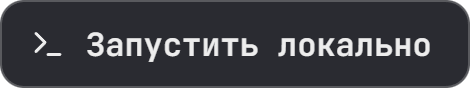
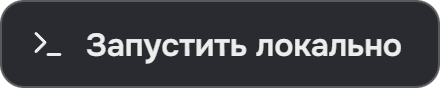
docs: Шапка README приведена к шаблону, логотип без подложки и ровные ряды бейджей

diff --git a/presentation/readme/assets.html b/presentation/readme/assets.html
@@ -56,31 +56,7 @@ body {
   align-content: center;
   gap: 22px;
   width: 880px;
-  height: 300px;
-  overflow: hidden;
-  border: 1px solid var(--border-subtle);
-  border-radius: var(--radius-lg);
-  background: var(--surface-raised);
-}
-
-.banner-trace {
-  position: absolute;
-  left: 0;
-  right: 0;
-  top: 150px;
-  height: 1px;
-  background: var(--border-subtle);
-}
-
-.banner-trace::after {
-  content: "";
-  position: absolute;
-  right: 96px;
-  top: -5px;
-  width: 11px;
-  height: 11px;
-  border-radius: var(--radius-pill);
-  background: var(--action-primary);
+  height: 200px;
 }
 
 .lockup {
@@ -88,8 +64,6 @@ body {
   display: flex;
   align-items: center;
   gap: 20px;
-  padding: 0 24px;
-  background: var(--surface-raised);
 }
 
 .mark {
@@ -142,14 +116,6 @@ body {
   background: var(--brand-mark-blue);
 }
 
-.team {
-  position: relative;
-  margin: 0;
-  font-family: var(--font-mono);
-  font-size: 15px;
-  color: var(--text-tertiary);
-}
-
 .promise {
   position: relative;
   max-width: 720px;
@@ -168,7 +134,6 @@ body {
 }
 
 .cta {
-  font-family: var(--font-mono);
   display: inline-flex;
   align-items: center;
   gap: 10px;
@@ -264,13 +229,11 @@ body {
 <body>
 
 <div class="banner" data-asset="banner">
-  <span class="banner-trace"></span>
   <div class="lockup">
     <span class="mark" data-mark></span>
     <span class="wordmark">cal<span class="wm-i">ı<i></i></span>br</span>
   </div>
   <p class="promise">Подбор ИТ-специалистов, <em>который нельзя накрутить</em></p>
-  <p class="team">команда GoatWhistle, спецтрек ФСП</p>
 </div>
 
 <span class="mark" data-asset="mark" data-mark style="width: 34px; height: 33px"></span>

diff --git a/README.md b/README.md
@@ -1,7 +1,7 @@
 <p align="center">
   <picture>
     <source media="(prefers-color-scheme: dark)" srcset="docs/readme/banner.dark.png">
-    <img src="docs/readme/banner.light.png" alt="calibr: подбор ИТ-специалистов, который нельзя накрутить" width="880" height="300">
+    <img src="docs/readme/banner.light.png" alt="calibr: подбор ИТ-специалистов, который нельзя накрутить" width="880" height="200">
   </picture>
 </p>
 
@@ -13,10 +13,11 @@
 
 <p align="center">
   <!-- readme:buttons -->
-  <a href="http://lct-fsp.goatwhistle.ru"><picture><source media="(prefers-color-scheme: dark)" srcset="docs/readme/cta-live.dark.png"><img src="docs/readme/cta-live.light.png" alt="Открыть стенд" width="187" height="44"></picture></a>
-  <a href="#запуск"><picture><source media="(prefers-color-scheme: dark)" srcset="docs/readme/cta-run.dark.png"><img src="docs/readme/cta-run.light.png" alt="Запустить локально" width="235" height="44"></picture></a>
-  <a href="docs/for-jury.md"><picture><source media="(prefers-color-scheme: dark)" srcset="docs/readme/cta-jury.dark.png"><img src="docs/readme/cta-jury.light.png" alt="Маршрут для жюри" width="216" height="44"></picture></a>
-  <a href="docs/README.md"><picture><source media="(prefers-color-scheme: dark)" srcset="docs/readme/cta-docs.dark.png"><img src="docs/readme/cta-docs.light.png" alt="Документация" width="177" height="44"></picture></a>
+  <a href="http://lct-fsp.goatwhistle.ru"><picture><source media="(prefers-color-scheme: dark)" srcset="docs/readme/cta-live.dark.png"><img src="docs/readme/cta-live.light.png" alt="Открыть стенд" width="178" height="44"></picture></a>
+  <a href="#запуск"><picture><source media="(prefers-color-scheme: dark)" srcset="docs/readme/cta-run.dark.png"><img src="docs/readme/cta-run.light.png" alt="Запустить локально" width="220" height="44"></picture></a>
+  <br>
+  <a href="docs/for-jury.md"><picture><source media="(prefers-color-scheme: dark)" srcset="docs/readme/cta-jury.dark.png"><img src="docs/readme/cta-jury.light.png" alt="Маршрут для жюри" width="217" height="44"></picture></a>
+  <a href="docs/README.md"><picture><source media="(prefers-color-scheme: dark)" srcset="docs/readme/cta-docs.dark.png"><img src="docs/readme/cta-docs.light.png" alt="Документация" width="176" height="44"></picture></a>
   <!-- /readme:buttons -->
 </p>
 
@@ -24,6 +25,7 @@
   <!-- readme:status -->
   <a href="#результаты"><picture><source media="(prefers-color-scheme: dark)" srcset="docs/readme/badge-status-1.dark.png"><img src="docs/readme/badge-status-1.light.png" alt="завышение грейда: 0,018 против 0,137" width="290" height="28"></picture></a>
   <a href="#устройство"><picture><source media="(prefers-color-scheme: dark)" srcset="docs/readme/badge-status-2.dark.png"><img src="docs/readme/badge-status-2.light.png" alt="персональные данные: не уходят во внешние API" width="346" height="28"></picture></a>
+  <br>
   <a href="docs/fsp-integration.md"><picture><source media="(prefers-color-scheme: dark)" srcset="docs/readme/badge-status-3.dark.png"><img src="docs/readme/badge-status-3.light.png" alt="ФСП ID: OIDC, Keycloak" width="185" height="28"></picture></a>
   <a href="LICENSE"><picture><source media="(prefers-color-scheme: dark)" srcset="docs/readme/badge-status-4.dark.png"><img src="docs/readme/badge-status-4.light.png" alt="лицензия: MIT" width="124" height="28"></picture></a>
   <!-- /readme:status -->
@@ -32,6 +34,7 @@
   <picture><source media="(prefers-color-scheme: dark)" srcset="docs/readme/badge-stack-1.dark.png"><img src="docs/readme/badge-stack-1.light.png" alt="модель навыка: IRT 2PL" width="184" height="28"></picture>
   <picture><source media="(prefers-color-scheme: dark)" srcset="docs/readme/badge-stack-2.dark.png"><img src="docs/readme/badge-stack-2.light.png" alt="API: FastAPI" width="110" height="28"></picture>
   <picture><source media="(prefers-color-scheme: dark)" srcset="docs/readme/badge-stack-3.dark.png"><img src="docs/readme/badge-stack-3.light.png" alt="хранилище: PostgreSQL 16" width="208" height="28"></picture>
+  <br>
   <picture><source media="(prefers-color-scheme: dark)" srcset="docs/readme/badge-stack-4.dark.png"><img src="docs/readme/badge-stack-4.light.png" alt="фронтенд: React 19 и TypeScript" width="243" height="28"></picture>
   <picture><source media="(prefers-color-scheme: dark)" srcset="docs/readme/badge-stack-5.dark.png"><img src="docs/readme/badge-stack-5.light.png" alt="запуск: Docker Compose" width="190" height="28"></picture>
   <!-- /readme:stack -->
@@ -42,6 +45,7 @@
   <a href="#зачем-это"><picture><source media="(prefers-color-scheme: dark)" srcset="docs/readme/badge-nav-1.dark.png"><img src="docs/readme/badge-nav-1.light.png" alt="Зачем это" width="90" height="26"></picture></a>
   <a href="#как-это-работает"><picture><source media="(prefers-color-scheme: dark)" srcset="docs/readme/badge-nav-2.dark.png"><img src="docs/readme/badge-nav-2.light.png" alt="Как это работает" width="134" height="26"></picture></a>
   <a href="#попробовать-за-пять-минут"><picture><source media="(prefers-color-scheme: dark)" srcset="docs/readme/badge-nav-3.dark.png"><img src="docs/readme/badge-nav-3.light.png" alt="Попробовать" width="109" height="26"></picture></a>
+  <br>
   <a href="#результаты"><picture><source media="(prefers-color-scheme: dark)" srcset="docs/readme/badge-nav-4.dark.png"><img src="docs/readme/badge-nav-4.light.png" alt="Результаты" width="98" height="26"></picture></a>
   <a href="#запуск"><picture><source media="(prefers-color-scheme: dark)" srcset="docs/readme/badge-nav-5.dark.png"><img src="docs/readme/badge-nav-5.light.png" alt="Запуск" width="70" height="26"></picture></a>
   <a href="#устройство"><picture><source media="(prefers-color-scheme: dark)" srcset="docs/readme/badge-nav-6.dark.png"><img src="docs/readme/badge-nav-6.light.png" alt="Устройство" width="99" height="26"></picture></a>
